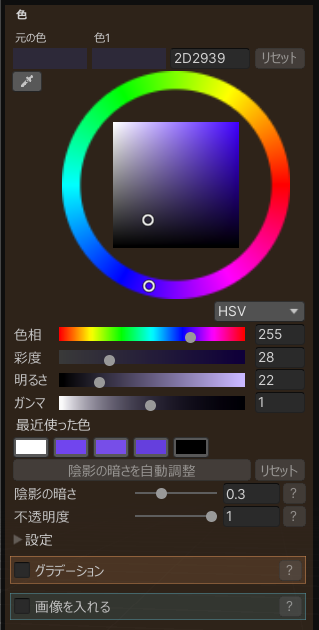
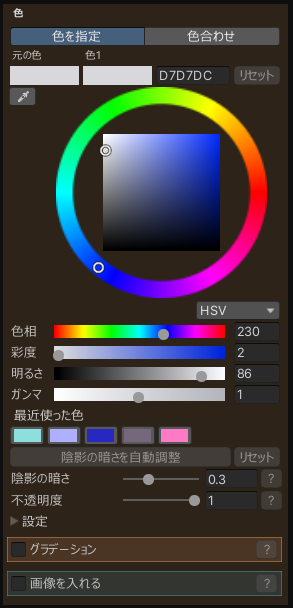
0.7.0: 色合わせのページを追加し、範囲をなぞって選ぶ・残りのパーツも選ぶの名前と置き場所を新しい画面に合わせた

diff --git a/index.html b/index.html
@@ -72,6 +72,7 @@ td.c{ text-align:center; font-weight:700; }
 </style>
 </head>
 <body>
+
 <div class="doc">
 
 <section class="page cover">
@@ -80,10 +81,10 @@ td.c{ text-align:center; font-weight:700; }
   <div class="hue"></div>
   <p class="sub"><span class="nb">Scene</span> でクリックした場所の色を、陰影を保ったまま変える Unity エディタ拡張</p>
   <div class="meta">
-    <span>対応版</span><span><span class="nb">Tocolo</span> <span class="nb">0.6.0</span> ／ <span class="nb">Tocolo Pro</span> <span class="nb">0.6.0</span></span>
+    <span>対応版</span><span><span class="nb">Tocolo</span> <span class="nb">0.7.0</span> ／ <span class="nb">Tocolo Pro</span> <span class="nb">0.7.0</span></span>
     <span>動作環境</span><span><span class="nb">Unity 2022.3</span>、VRChat SDK Avatars 3.7.0 以降、<span class="nb">NDMF</span> 1.14.0 以降</span>
     <span>作者</span><span>nekoare</span>
-    <span>更新</span><span>2026-10-25</span>
+    <span>更新</span><span>2026-11-21</span>
   </div>
   <div class="foot"><span><span class="nb">Tocolo</span> 操作説明書</span><span>表紙</span></div>
 </section>
@@ -94,14 +95,14 @@ td.c{ text-align:center; font-weight:700; }
     <span>1</span><span class="d"><span class="nb">Tocolo</span> でできること・体験版と Pro の違い</span><span>3</span>
     <span>2</span><span class="d">導入と削除のしかた</span><span>4</span>
     <span>3</span><span class="d">基本操作（開始・クリック・色を選ぶ・終了）</span><span>5</span>
-    <span>4</span><span class="d">範囲の調整（影響範囲・テクスチャの残りを選択・複数選択・除外リスト・なぞって調整・箱の中）</span><span>6</span>
-    <span>5</span><span class="d">色の調整（<span class="nb">色 1／色 2</span>・ガンマ・陰影・不透明度・色がずれるとき）</span><span>11</span>
-    <span>6</span><span class="d">グラデーション</span><span>13</span>
-    <span>7</span><span class="d">画像を入れる（シール・箱で貼る）</span><span>14</span>
-    <span>8</span><span class="d">対象アバター・表示切替・編集一覧・オーバーレイの操作</span><span>17</span>
-    <span>9</span><span class="d">Pro: アップロード時の反映と書き出し</span><span>19</span>
-    <span>10</span><span class="d">注意事項とトラブルシューティング</span><span>21</span>
-    <span>11</span><span class="d">用語と操作の一覧</span><span>24</span>
+    <span>4</span><span class="d">範囲の調整（影響範囲・残りのパーツも選ぶ・複数選択・除外リスト・範囲をなぞって選ぶ・箱の中）</span><span>6</span>
+    <span>5</span><span class="d">色の調整（<span class="nb">色 1／色 2</span>・ガンマ・陰影・不透明度・色がずれるとき・色合わせ）</span><span>11</span>
+    <span>6</span><span class="d">グラデーション</span><span>15</span>
+    <span>7</span><span class="d">画像を入れる（シール・箱で貼る）</span><span>16</span>
+    <span>8</span><span class="d">対象アバター・表示切替・編集一覧・オーバーレイの操作</span><span>19</span>
+    <span>9</span><span class="d">Pro: アップロード時の反映と書き出し</span><span>21</span>
+    <span>10</span><span class="d">注意事項とトラブルシューティング</span><span>23</span>
+    <span>11</span><span class="d">用語と操作の一覧</span><span>26</span>
   </div>
   <h3>この説明書の読み方</h3>
   <ul>
@@ -123,6 +124,7 @@ td.c{ text-align:center; font-weight:700; }
         <li>衣装の一部だけ色を変えて、髪や小物と合わせたい</li>
         <li>同じテクスチャを使う別のパーツは元の色のまま残したい</li>
         <li>上から下へ色が変わるグラデーションをテクスチャを描かずに入れたい</li>
+          <li>ショップの違う髪の色味を、お手本の髪にそろえたい</li>
         <li>ロゴやワッペンなどの画像を、服のしわに沿って貼りたい</li>
         <li>色の候補をいくつも試して、決まったものだけアップロードしたい</li>
       </ul>
@@ -133,7 +135,7 @@ td.c{ text-align:center; font-weight:700; }
   <table>
     <tr><th></th><th>体験版（無料）</th><th><span class="nb">Tocolo Pro</span></th></tr>
     <tr><td><span class="nb">Scene</span> でクリックして範囲を選ぶ・色を変える</td><td class="c">○</td><td class="c">○</td></tr>
-    <tr><td>グラデーション・除外リスト・複数選択</td><td class="c">○</td><td class="c">○</td></tr>
+    <tr><td>グラデーション・色合わせ・除外リスト・複数選択</td><td class="c">○</td><td class="c">○</td></tr>
     <tr><td>画像を入れる（<span class="nb">Scene</span> で貼って確かめる）</td><td class="c">○</td><td class="c">○</td></tr>
     <tr><td><span class="nb">NDMF</span> プレビュー（<span class="nb">Scene</span> に結果を表示）</td><td class="c">○</td><td class="c">○</td></tr>
     <tr><td>アップロード時に反映（色変え・画像とも）</td><td class="c">×</td><td class="c">○</td></tr>
@@ -201,8 +203,8 @@ td.c{ text-align:center; font-weight:700; }
     <tr><td><b>似た色</b></td><td>近い色を広めに。しきい値を大きめに取った状態</td><td>グラデーションや影のある部分</td></tr>
   </table>
   <p>モードを切り替えると、選んでいる編集にもすぐ反映されます。</p>
-  <h3>テクスチャの残りを選択</h3>
-  <p>影響範囲がパーツのとき、右端に［テクスチャの残りを選択］が出ます。押すと、そのテクスチャのまだ選んでいないパーツを全部足します（除外リストの <span class="nb">Renderer</span> は除く。「各点の色を揃える」は OFF に）。要らないパーツは <kbd>Ctrl</kbd>＋クリックで外せます。</p>
+  <h3>残りのパーツも選ぶ</h3>
+  <p>影響範囲がパーツのとき、モードのボタンの下に［＋残りのパーツも選ぶ］が出ます。押すと、そのテクスチャのまだ選んでいないパーツを全部足します（除外リストの <span class="nb">Renderer</span> は除く。「各点の色を揃える」は OFF に）。要らないパーツは <kbd>Ctrl</kbd>＋クリックで外せます。</p>
   <div class="two">
     <div class="block range">
       <h3>パネルに出ている項目（同じ色・似た色）</h3>
@@ -217,12 +219,13 @@ td.c{ text-align:center; font-weight:700; }
       <dl class="term">
         <dt>またいで選ぶ</dt><dd>「マテリアルをまたいで選ぶ」。7 ページ</dd>
         <dt>隠れている範囲</dt><dd>「隠れている範囲も選ぶ」。7 ページ</dd>
+        <dt>範囲をなぞって選ぶ</dt><dd>パーツのとき。8 ページ</dd>
         <dt>ゴマ塩除去</dt><dd>同じ色・似た色のとき。塗りに混じる細かい点を取り除きます</dd>
         <dt>はみ出し幅</dt><dd>パーツのまわりの <span class="nb">UV</span> の空き部分まで色を広げる幅（px）。つなぎ目に元の色の線が見えるときは上げ、マイナスで縁を削ります</dd>
       </dl>
     </div>
   </div>
-  <p>なぞって調整は 8 ページ、箱の中の項目は 10 ページ。範囲の縞模様は小窓「表示切替」の［選択範囲］で出し入れします（8 章）。</p>
+  <p>範囲をなぞって選ぶは 8 ページ、箱の中の項目は 10 ページ。範囲の縞模様は小窓「表示切替」の［選択範囲］で出し入れします（8 章）。</p>
   <div class="foot"><span>4. 範囲の調整</span><span>6</span></div>
 </section>
 
@@ -251,17 +254,17 @@ td.c{ text-align:center; font-weight:700; }
 </section>
 
 <section class="page">
-  <h2>4. 範囲の調整（なぞって調整） <span class="tag range">範囲</span></h2>
+  <h2>4. 範囲の調整（範囲をなぞって選ぶ） <span class="tag range">範囲</span></h2>
   <p>パーツで選んだ範囲を、<span class="nb">Scene</span> でなぞって面（三角形）ごとに足したり消したりします。髪のメッシュカラー（筋状の色）やインナーカラーのように、<span class="nb">UV</span> がほかの所とつながっていて、パーツで選ぶと大きな塊ごと色が変わってしまうときに使います。</p>
   <ol class="steps">
     <li><span>影響範囲を「パーツ」にして、変えたい所を含むパーツをクリックします（パーツがまるごと選ばれます）。<kbd>Ctrl</kbd>＋クリックやエリア選択で、先にパーツを足しておくこともできます。</span></li>
-    <li><span>範囲ブロックの「なぞって調整」で［足す］か［消す］を押します。押したボタンが光り、<span class="nb">Scene</span> のカーソルにブラシの円が出ます（足すは緑、消すは赤）。</span></li>
+    <li><span>範囲ブロックの「▸ 設定」を開き、「範囲をなぞって選ぶ」で［足す］か［消す］を押します。押したボタンが光り、<span class="nb">Scene</span> のカーソルにブラシの円が出ます（足すは緑、消すは赤）。</span></li>
     <li><span><span class="nb">Scene</span> でドラッグしてなぞります。ブラシの円に触れた面が、緑（足す）か赤（消す）で重なって見えます。<kbd>Ctrl</kbd> を押している間は、足すと消すが入れ替わります（パネルのボタンの光り方も入れ替わります）。右下の操作の案内も、ブラシを持っている間はなぞりの案内に変わります。</span></li>
     <li><span>離すと、範囲と色がまとめて反映されます。1 回なぞるごとに <kbd>Ctrl</kbd>+<kbd>Z</kbd> で戻せます。</span></li>
-    <li><span>終わったら、同じボタンをもう一度押すか <kbd>Esc</kbd> で道具を置きます。道具を持っている間は、クリックでの選び直し・<kbd>Shift</kbd>＋クリック・<kbd>Ctrl</kbd>＋クリック・エリア選択は効きません。</span></li>
+    <li><span>終わったら、同じボタンをもう一度押すか <kbd>Esc</kbd> で道具を置きます（「▸ 設定」を閉じても置きます）。道具を持っている間は、クリックでの選び直し・<kbd>Shift</kbd>＋クリック・<kbd>Ctrl</kbd>＋クリック・エリア選択は効きません。</span></li>
   </ol>
   <div class="block range">
-    <h3>パネルに出ている項目（パーツのとき）</h3>
+    <h3>「▸ 設定」の中の項目（パーツのとき）</h3>
     <dl class="term">
       <dt>足す</dt><dd>押すと道具を持ち、なぞった面を範囲に足します。もう一度押すと置きます</dd>
       <dt>消す</dt><dd>なぞった面を範囲から外します</dd>
@@ -270,12 +273,12 @@ td.c{ text-align:center; font-weight:700; }
       <dt>ブラシのはみ出し</dt><dd>なぞった境目を、＋で外へ（範囲が広がる）、−で内へ（狭まる）ずらします（px、既定 0）。毛束の色の境目がメッシュの辺とずれているときに使います</dd>
     </dl>
   </div>
-  <div><div class="fig" style="padding:4px"><img src="img/fig16.png" alt="［消す］でなぞっているところ（パネルの「なぞって調整」と Scene の赤く重なった面）" style="max-height:55mm;width:auto"></div><div class="cap">パーツを選んでから［消す］でなぞっているところ。ブラシの円に触れた面が赤く重なり、離すと範囲から外れる</div></div>
-  <div class="foot"><span>4. 範囲の調整（なぞって調整）</span><span>8</span></div>
+  <div><div class="fig" style="padding:4px"><img src="img/fig16.png" alt="［足す］でなぞっているところ（パネルの「範囲をなぞって選ぶ」と Scene の緑に重なった面）" style="max-height:55mm;width:auto"></div><div class="cap">パーツを選んでから［足す］でなぞっているところ。ブラシの円に触れた面が緑に重なり、離すと範囲に足される</div></div>
+  <div class="foot"><span>4. 範囲の調整（範囲をなぞって選ぶ）</span><span>8</span></div>
 </section>
 
 <section class="page">
-  <h2>4. 範囲の調整（なぞって調整・続き） <span class="tag range">範囲</span></h2>
+  <h2>4. 範囲の調整（範囲をなぞって選ぶ・続き） <span class="tag range">範囲</span></h2>
   <h3>知っておくこと</h3>
   <ul>
     <li>ブラシが当たるのは、<span class="nb">Scene</span> で見えている面だけです。奥の面をなぞりたいときは、<span class="nb">Hierarchy</span> の目のマークで手前の物を隠すか、手前の物を除外リストに入れてください。</li>
@@ -289,7 +292,7 @@ td.c{ text-align:center; font-weight:700; }
     <div><div class="fig" style="padding:4px"><img src="img/fig17b.png" alt="［消す］でなぞった後（なぞった毛束が元の色に戻っている）" style="max-height:80mm;width:auto"></div><div class="cap">［消す］でなぞった後。なぞった毛束だけが元の色に戻る</div></div>
   </div>
   <div class="note"><b>分けられない場合</b>　変えたい所とほかの所がテクスチャの同じ場所を使い回している（<span class="nb">UV</span> が重なっている）と、なぞって分けても両方一緒に変わります。テクスチャの色変えでは分けられません。また、色の境目が面の途中に描かれている模様は、面ごとには切れません。「同じ色／似た色」や「箱の中」を試してください。</div>
-  <div class="foot"><span>4. 範囲の調整（なぞって調整・続き）</span><span>9</span></div>
+  <div class="foot"><span>4. 範囲の調整（範囲をなぞって選ぶ・続き）</span><span>9</span></div>
 </section>
 
 <section class="page">
@@ -339,7 +342,7 @@ td.c{ text-align:center; font-weight:700; }
       <h3>最近使った色</h3>
       <p>直近 5 色が並びます。押すとその色になります。</p>
     </div>
-    <div><div class="fig" style="padding:4px"><img src="img/fig6.png" alt="色ブロック（「▸ 設定」は閉じた状態）" style="max-height:100mm;width:auto"></div><div class="cap">色ブロック。上から見本行とカラーコード、スポイト、カラーホイール、<span class="nb">HSV／RGB</span> スライダー、ガンマ、最近使った色、仕上がりの調整、「▸ 設定」</div></div>
+    <div><div class="fig" style="padding:4px"><img src="img/fig6.png" alt="色ブロック（「▸ 設定」は閉じた状態）" style="max-height:100mm;width:auto"></div><div class="cap">色ブロック。上から［色を指定｜色合わせ］の切り替え（色合わせは 13 ページ）、見本行とカラーコード、スポイト、カラーホイール、<span class="nb">HSV／RGB</span> スライダー、ガンマ、最近使った色、仕上がりの調整、「▸ 設定」</div></div>
   </div>
   <div class="block color">
     <h3>仕上がりの調整（パネルに出ている項目）</h3>
@@ -376,6 +379,76 @@ td.c{ text-align:center; font-weight:700; }
 </section>
 
 <section class="page">
+  <h2>5. 色の調整（色合わせ） <span class="tag color">色</span></h2>
+  <p>色を 1 つ選ぶ代わりに、別の髪（お手本）の色味に合わせます。お手本の暗い所から明るい所までの色と明るさの散らばり方を写すので、ショップの違う髪どうしでも、陰影の付き方ごと色味をそろえられます。</p>
+  <div class="two">
+    <div><div class="fig" style="padding:4px"><img src="img/fig18a.png" alt="色合わせの前（左の白い髪がお手本、右は紫の髪）" style="max-height:48mm;width:auto"></div><div class="cap">色合わせの前。左がお手本の髪、右が色を合わせたい髪</div></div>
+    <div><div class="fig" style="padding:4px"><img src="img/fig18b.png" alt="色合わせの後（右の髪がお手本の白い色味にそろっている）" style="max-height:48mm;width:auto"></div><div class="cap">色合わせの後。右の髪がお手本の色味にそろう（少し調整）</div></div>
+  </div>
+  <ol class="steps">
+    <li><span>変えたい髪をクリックして範囲を選びます。影響範囲はふだんどおり（パーツ・箱の中・同じ色・似た色）です。</span></li>
+    <li><span>色ブロックの一番上の［色合わせ］を押します。<span class="nb">Scene</span> でお手本を選ぶ状態になり、パネルに案内が出ます。</span></li>
+    <li><span><span class="nb">Scene</span> でお手本にする髪をクリックします。その場で色を測り、すぐに色が変わります。アバターの外にある髪（お手本用に置いた別の髪など）は、パネルの「お手本」の欄に <span class="nb">Hierarchy</span> からドラッグ＆ドロップします。</span></li>
+    <li><span>必要なら、明るさの山やスライダーでお手本からずらします（14 ページ）。</span></li>
+  </ol>
+  <div class="two">
+    <div class="block color">
+      <h3>「お手本」の行</h3>
+      <dl class="term">
+        <dt>左のボタン</dt><dd>押すと <span class="nb">Scene</span> でお手本を選ぶ状態になります。もう一度押すか <kbd>Esc</kbd> でやめます</dd>
+        <dt>欄</dt><dd>お手本の <span class="nb">Renderer</span>。空にするとお手本を外し、この編集は色を変えなくなります</dd>
+        <dt>マテリアル</dt><dd>お手本にマテリアルが複数あるときに出ます。どのマテリアルの色に合わせるかを選びます</dd>
+      </dl>
+    </div>
+    <div>
+      <h3>範囲と合わせ方</h3>
+      <ul>
+        <li>色が変わるのは、範囲で選んだ所だけです。合わせ方は、そのテクスチャを使う髪全体の色で決めます。</li>
+        <li>［色を指定］に戻すと、前に指定していた色（無ければ元の色）に戻ります。お手本は覚えているので、［色合わせ］に戻せば同じ色になります。</li>
+        <li>色合わせの間は、グラデーションと画像を入れるのブロックが出ません（その編集では切れます）。設定は残るので、［色を指定］に戻して ON にし直せば元どおりです。</li>
+      </ul>
+    </div>
+  </div>
+  <div class="foot"><span>5. 色の調整（色合わせ）</span><span>13</span></div>
+</section>
+
+<section class="page">
+  <h2>5. 色の調整（色合わせ・続き） <span class="tag color">色</span></h2>
+  <div class="two">
+    <div>
+      <h3>明るさの山</h3>
+      <p>横が明るさ（左が暗い）、高さがその明るさの部分の多さ、色が合わせた後の色です。薄い灰色の山は、ずらす前（お手本どおり）の形です。山・線・下の ▲ はつかんで動かせます。</p>
+      <dl class="term">
+        <dt>山の本体・中の ▲</dt><dd>左右にドラッグすると、全体の明るさが変わります</dd>
+        <dt>左の線・左の ▲</dt><dd>陰影の暗さが変わります</dd>
+        <dt>右の線・右の ▲</dt><dd>ハイライトの伸びが変わります</dd>
+      </dl>
+      <p>▲ が重なったときは、中の ▲ の少し左を押すと影、少し右を押すとハイライトをつかめます。</p>
+      <h3>見本行</h3>
+      <p>左の「お手本の色」はお手本の代表の色、右の「合わせた色」は合わせた結果の代表の色です。「お手本の色」か［リセット］を押すと、ずらしとガンマをお手本どおりに戻します（不透明度はそのまま）。</p>
+    </div>
+    <div><div class="fig" style="padding:4px"><img src="img/fig19.png" alt="色合わせの欄" style="max-height:100mm;width:auto"></div><div class="cap">色合わせの欄。上から［色を指定｜色合わせ］、お手本の行、見本行、明るさの山、スライダー</div></div>
+  </div>
+  <div class="block color">
+    <h3>スライダー</h3>
+    <dl class="term">
+      <dt>明るさ</dt><dd>全体を明るく・暗くずらします（山の本体と同じ）</dd>
+      <dt>色相・彩度</dt><dd>色味を回す・鮮やかさを足し引きします</dd>
+      <dt>陰影の暗さ</dt><dd>暗い所の暗さ（山の左の線と同じ）</dd>
+      <dt>ハイライトの伸び</dt><dd>明るい所の伸び（山の右の線と同じ）</dd>
+      <dt>ガンマ・不透明度</dt><dd>［色を指定］と同じです（11 ページ）</dd>
+    </dl>
+  </div>
+  <h3>知っておくこと</h3>
+  <ul>
+    <li>お手本の髪を同じアバターの <span class="nb">Tocolo</span> で色変えしていれば、変えた後の色に合わせます。お手本の色を変えると、こちらも付いてきます（お手本側の色合わせは反映しません）。</li>
+    <li>お手本を消したり見つからなくなったりしても、前に測った色で合わせ続けます（パネルに案内が出ます）。アップロードもその色です。</li>
+  </ul>
+  <div class="note"><b>色合わせが使えないとき</b>　「アバター全体」の編集、キメラヘアマスターで扱っている髪では使えません。お手本と同じテクスチャの髪・メインテクスチャの無いマテリアルはお手本にできません。お手本の色を読めないとき（メッシュの <span class="nb">Read/Write</span> が無効など）は、有効にしてからパネルの［もう一度測る］を押してください。</div>
+  <div class="foot"><span>5. 色の調整（色合わせ・続き）</span><span>14</span></div>
+</section>
+
+<section class="page">
   <h2>6. グラデーション <span class="tag color">色</span></h2>
   <p>選んでいる範囲に、<span class="nb">Scene</span> 空間の位置で色を変えるグラデーションを入れます。「グラデーション」を ON にすると <span class="nb">Scene</span> に箱が出て、箱の下端の「<span class="nb">色 1</span>」から上端の「<span class="nb">色 2</span>」へ変化します。</p>
   <ol class="steps">
@@ -395,7 +468,7 @@ td.c{ text-align:center; font-weight:700; }
     </div>
   </div>
   <p>マテリアルをまたいで連結した編集にも、グラデーションの設定は共通で効きます。箱は 1 つで、各パーツの位置に応じて混ざります。箱を隠したいときは 8 章の小窓「表示切替」を使います。</p>
-  <div class="foot"><span>6. グラデーション</span><span>13</span></div>
+  <div class="foot"><span>6. グラデーション</span><span>15</span></div>
 </section>
 
 <section class="page">
@@ -408,7 +481,7 @@ td.c{ text-align:center; font-weight:700; }
     </div>
     <div class="block">
       <h3>箱で貼る</h3>
-      <p>「▸ 設定」でオンにします。青緑の箱の正面から、奥へまっすぐ写して貼ります。ネクタイ一面のように範囲いっぱいに貼りたいときや、離れたパーツにまたがって貼りたいときに使います（15 ページ）。</p>
+      <p>「▸ 設定」でオンにします。青緑の箱の正面から、奥へまっすぐ写して貼ります。ネクタイ一面のように範囲いっぱいに貼りたいときや、離れたパーツにまたがって貼りたいときに使います（17 ページ）。</p>
     </div>
   </div>
   <h3>シールの貼り方</h3>
@@ -420,7 +493,7 @@ td.c{ text-align:center; font-weight:700; }
   </ol>
   <div><div class="fig" style="padding:4px"><img src="img/fig11.png" alt="Scene のシール（枠・四隅の丸・まわりの輪が見えるように）" style="max-height:56mm;width:auto"></div><div class="cap">シールで画像を入れた編集。画像のまわりに枠、四隅に大きさを変える丸、外側に回転の輪が出る。画像は範囲の中にだけ貼られる</div></div>
   <div class="note"><b>注意</b>　アップロードに反映されるのは <span class="nb">Tocolo Pro</span> を入れたときだけです（体験版は <span class="nb">Scene</span> で確かめるまで）。画像のファイルを消すと、その編集は反映されず、編集一覧に警告の印が出ます。なめらかに貼るには、メッシュの <span class="nb">Read/Write</span> が有効である必要があります。<span class="nb">Poiyomi</span> の重ね貼り用マテリアルは、アップロード時の <span class="nb">Poiyomi</span> のロックで一緒にロックされます。</div>
-  <div class="foot"><span>7. 画像を入れる</span><span>14</span></div>
+  <div class="foot"><span>7. 画像を入れる</span><span>16</span></div>
 </section>
 
 <section class="page">
@@ -461,7 +534,7 @@ td.c{ text-align:center; font-weight:700; }
       <p>画像・置き場所・「▸ 設定」の中身は、OFF にしてから ON に戻してもそのまま残ります。トグルの行の［リセット］を押すと、シールは最初にクリックした所に面の向き・標準の大きさで、箱は範囲を囲む位置に置き直します（画像と「▸ 設定」の中身はそのまま）。</p>
     </div>
   </div>
-  <div class="foot"><span>7. 画像を入れる（動かし方・箱で貼る）</span><span>15</span></div>
+  <div class="foot"><span>7. 画像を入れる（動かし方・箱で貼る）</span><span>17</span></div>
 </section>
 
 <section class="page">
@@ -479,8 +552,8 @@ td.c{ text-align:center; font-weight:700; }
   <div class="block color">
     <h3>「▸ 設定」の中</h3>
     <dl class="term">
-      <dt>箱で貼る</dt><dd>既定 OFF（シール）。オンで箱からまっすぐ写す貼り方になります（15 ページ）</dd>
-      <dt>向きも面に合わせる</dt><dd>箱で貼るときだけ出ます。既定 ON（15 ページ）</dd>
+      <dt>箱で貼る</dt><dd>既定 OFF（シール）。オンで箱からまっすぐ写す貼り方になります（17 ページ）</dd>
+      <dt>向きも面に合わせる</dt><dd>箱で貼るときだけ出ます。既定 ON（17 ページ）</dd>
       <dt>なめらかに貼る</dt><dd>既定 ON。テクスチャに焼き込まず、画像を貼った面を重ねて直接表示します。<span class="nb">lilToon</span> と、ロックしていない <span class="nb">Poiyomi Toon</span> のマテリアルで使えます。それ以外のマテリアルが範囲に含まれると押せず、焼き込みで貼ります</dd>
       <dt>ノーマルも反映</dt><dd>既定 ON。なめらかに貼るときだけ効きます。服のしわや陰影を画像にも乗せます。<span class="nb">lilToon</span> は元の法線マップを画像の位置に写し直すので、法線マップが 1 枚増えます。<span class="nb">Poiyomi</span> は服と同じ法線マップをそのまま使います</dd>
       <dt>比率を保つ</dt><dd>既定 ON。画像の縦横比を保ちます。OFF で枠（箱）いっぱいに引き伸ばします</dd>
@@ -494,7 +567,7 @@ td.c{ text-align:center; font-weight:700; }
     <tr><td>使えるマテリアル</td><td>すべて</td><td><span class="nb">lilToon</span>・<span class="nb">Poiyomi Toon</span>（ロックなし）</td></tr>
     <tr><td>アップロード時に増えるもの</td><td>生成テクスチャ（色変えと同じ）</td><td>重ねる面のメッシュ・マテリアル・画像（ノーマルも反映なら法線マップも）</td></tr>
   </table>
-  <div class="foot"><span>7. 画像を入れる（設定）</span><span>16</span></div>
+  <div class="foot"><span>7. 画像を入れる（設定）</span><span>18</span></div>
 </section>
 
 <section class="page">
@@ -514,7 +587,7 @@ td.c{ text-align:center; font-weight:700; }
     </div>
     <div><div class="fig" style="padding:8px"><img src="img/fig13.png" alt="小窓「表示切替」（［選択範囲］と［画像］が見えるように）" style="width:auto"></div><div class="cap">パネルの横に出る小窓「表示切替」。一番上の［選択範囲］で縞模様、その下のボタンで <span class="nb">Scene</span> に出す箱を選ぶ</div></div>
   </div>
-  <div class="foot"><span>8. 対象アバター・表示切替</span><span>17</span></div>
+  <div class="foot"><span>8. 対象アバター・表示切替</span><span>19</span></div>
 </section>
 
 <section class="page">
@@ -542,7 +615,7 @@ td.c{ text-align:center; font-weight:700; }
   </ul>
   <h3>表示言語</h3>
   <p>右下の「<span class="nb">Tocolo</span>: 操作」オーバーレイの <span class="nb">Language</span> で、日本語・<span class="nb">English</span>・<span class="nb">한국어</span> を切り替えられます。</p>
-  <div class="foot"><span>8. 編集一覧・オーバーレイの操作</span><span>18</span></div>
+  <div class="foot"><span>8. 編集一覧・オーバーレイの操作</span><span>20</span></div>
 </section>
 
 <section class="page">
@@ -558,7 +631,7 @@ td.c{ text-align:center; font-weight:700; }
     <li>1 つの編集の画像を作れなくても、ほかの編集は続けて反映します（<span class="nb">NDMF</span> の報告ウィンドウに案内が出ます）。</li>
     <li>体験版と Pro の版は揃えてください。Pro が古いと、なめらかに貼った画像がアップロードに反映されません（報告ウィンドウに「有料版を更新してください」と出ます）。</li>
   </ul>
-  <div class="foot"><span>9. アップロード時の反映と書き出し</span><span>19</span></div>
+  <div class="foot"><span>9. アップロード時の反映と書き出し</span><span>21</span></div>
 </section>
 
 <section class="page">
@@ -578,7 +651,7 @@ td.c{ text-align:center; font-weight:700; }
     <li>各ボタンの <kbd>?</kbd> で説明が見出し付きで出ます。</li>
   </ul>
   <div><div class="fig" style="padding:4px"><img src="img/fig9.png" alt="Inspector の書き出し欄" style="max-height:46mm;width:auto"></div><div class="cap"><span class="nb">Inspector</span> の書き出し欄。上が「すべてのテクスチャ」の一括ボタン（右の ? で見出し付きの説明）、下がテクスチャごとの折りたたみ</div></div>
-  <div class="foot"><span>9. アップロード時の反映と書き出し（続き）</span><span>20</span></div>
+  <div class="foot"><span>9. アップロード時の反映と書き出し（続き）</span><span>22</span></div>
 </section>
 
 <section class="page">
@@ -604,7 +677,7 @@ td.c{ text-align:center; font-weight:700; }
     <li>アニメーションや他ツールのマテリアル差し替え機能で後から割り当てられるマテリアルには反映されません（<span class="nb">Renderer</span> に最初から付いているマテリアルだけを見ます）。</li>
     <li>圧縮系のツール（<span class="nb">NDMF</span> の最適化フェーズで動くもの）とは共存できます。<span class="nb">Tocolo</span> の結果がそのまま圧縮の対象になります。</li>
   </ul>
-  <div class="foot"><span>10. 注意事項とトラブルシューティング</span><span>21</span></div>
+  <div class="foot"><span>10. 注意事項とトラブルシューティング</span><span>23</span></div>
 </section>
 
 <section class="page">
@@ -614,7 +687,7 @@ td.c{ text-align:center; font-weight:700; }
     <tr><th>症状</th><th>原因と対処</th></tr>
     <tr><td>クリックしても選べない</td><td>メッシュのインポート設定で <span class="nb">Read/Write</span> が無効です。クリックするとパネルに案内と［<span class="nb">Read/Write</span> を有効にする］が出るので、押して有効にしてください（後から追加した衣装・小物でよく起きます）。除外リストに入っている <span class="nb">Renderer</span> も選べません</td></tr>
     <tr><td>「テクスチャの無いマテリアルは色を変えられません」と出る</td><td>クリックした所の一番手前が、テクスチャの無いマテリアルの物です。その物の色は変えられません。奥の物を選びたいときは、手前の物を除外リストに入れてください（4 章）</td></tr>
-    <tr><td>パーツで選ぶと、変えたい所より大きな塊で色が変わる</td><td>そのパーツは <span class="nb">UV</span> がほかの所とつながっています。範囲の「なぞって調整」の［消す］で要らない所をなぞって外すか、［足す］で要る所だけを選んでください（4 章 8 ページ）</td></tr>
+    <tr><td>パーツで選ぶと、変えたい所より大きな塊で色が変わる</td><td>そのパーツは <span class="nb">UV</span> がほかの所とつながっています。範囲の「▸ 設定」の「範囲をなぞって選ぶ」の［消す］で要らない所をなぞって外すか、［足す］で要る所だけを選んでください（4 章 8 ページ）</td></tr>
     <tr><td>選択範囲が全体に広がる</td><td>「同じ色／似た色」でしきい値が大きすぎるか、「範囲」が「テクスチャ全体」になっています。しきい値を下げるか「つながった範囲」にしてください</td></tr>
     <tr><td>つなぎ目に元の色の線が残る</td><td>範囲の「▸ 設定」の「はみ出し幅」を上げてください</td></tr>
     <tr><td>縞模様が出ない</td><td>小窓「表示切替」の［選択範囲］を ON にしてください（8 章）</td></tr>
@@ -625,7 +698,7 @@ td.c{ text-align:center; font-weight:700; }
     <tr><td><span class="nb">Scene</span> に緑や水色の線がたくさん重なって見づらい</td><td><img src="img/fig15.png" alt="Scene ビュー右上の地球儀のアイコン" style="float:right;height:20mm;width:auto;margin:0 0 4px 10px;border-radius:4px"><span class="nb">Scene</span> ビュー右上の地球儀のアイコン（<span class="nb">Gizmos</span>）を押して OFF にすると消えます。アバターのルートを選んでいると、<span class="nb">Unity</span> がアバター全体の選択の輪郭（水色）と、コンポーネントの線（接触の範囲など）を描くためです</td></tr>
     <tr><td><span class="nb">Scene</span> の操作が効かなくなった</td><td>オーバーレイのつまみを掴んだままになっている可能性があります。<span class="nb">Scene</span> をクリックするか 2 秒ほど待つと復帰します</td></tr>
   </table>
-  <div class="foot"><span>10. 注意事項とトラブルシューティング（続き）</span><span>22</span></div>
+  <div class="foot"><span>10. 注意事項とトラブルシューティング（続き）</span><span>24</span></div>
 </section>
 
 <section class="page">
@@ -644,7 +717,7 @@ td.c{ text-align:center; font-weight:700; }
     <tr><td>書き出しが「一時的なマテリアル」で中止される</td><td>他のツールの <span class="nb">Scene</span> プレビューがマテリアルを差し替えています。そのプレビューを解除してから書き出してください（アップロードには影響しません）</td></tr>
     <tr><td>アバター容量が増えた</td><td>生成テクスチャの既定「高画質」は <span class="nb">BC1</span> の約 2 倍の容量です。コンポーネントの「生成テクスチャの圧縮」を PC は「元と同じ」、Quest は「標準」にすると元と同程度になります。なめらかに貼った画像は、重ねる画像（ノーマルも反映なら法線マップも）のぶん増えます。圧縮系のツールで最適化している場合はそちらの設定が優先されます</td></tr>
   </table>
-  <div class="foot"><span>10. 注意事項とトラブルシューティング（続き）</span><span>23</span></div>
+  <div class="foot"><span>10. 注意事項とトラブルシューティング（続き）</span><span>25</span></div>
 </section>
 
 <section class="page">
@@ -658,6 +731,7 @@ td.c{ text-align:center; font-weight:700; }
         <dt>連結</dt><dd>マテリアルをまたいで足したときに作られる、テクスチャごとの編集の組。色や設定を共有します</dd>
         <dt><span class="nb">色 1／色 2</span></dt><dd>目標の色。グラデーションでは下端が<span class="nb">色 1</span>、上端が<span class="nb">色 2</span></dd>
         <dt>元の色</dt><dd>クリックした場所のテクスチャの色</dd>
+        <dt>お手本</dt><dd>色合わせで色味を合わせる相手の髪</dd>
         <dt>選択範囲</dt><dd>編集の範囲の縞模様。小窓「表示切替」で出し入れ</dd>
         <dt>箱</dt><dd><span class="nb">Scene</span> に出る箱。箱の中（水色）・グラデーション・画像（青緑。シールなら枠）。小窓「表示切替」で出し入れ</dd>
         <dt>シール</dt><dd>画像の既定の貼り方。面に沿って貼る</dd>
@@ -672,8 +746,8 @@ td.c{ text-align:center; font-weight:700; }
         <dt><kbd>Ctrl</kbd>＋クリック</dt><dd>いまの編集にパーツを足す／外す</dd>
         <dt><kbd>Ctrl</kbd>＋ドラッグ</dt><dd>エリアの中のパーツをまとめて足す（パーツモード）</dd>
         <dt>画像をドラッグ</dt><dd>面に沿って動かす</dd>
-        <dt>なぞる</dt><dd>［足す］か［消す］を押してからドラッグ。<kbd>Ctrl</kbd> で足す・消すを入れ替え</dd>
-        <dt><kbd>Esc</kbd></dt><dd>スポイト・なぞる道具・画像のドラッグをやめる／<span class="nb">Scene 編集</span>を終了</dd>
+        <dt>なぞる</dt><dd>範囲の「▸ 設定」の［足す］か［消す］を押してからドラッグ。<kbd>Ctrl</kbd> で足す・消すを入れ替え</dd>
+        <dt><kbd>Esc</kbd></dt><dd>スポイト・お手本選び・なぞる道具・画像のドラッグをやめる／<span class="nb">Scene 編集</span>を終了</dd>
         <dt><kbd>Ctrl</kbd>+<kbd>Z</kbd></dt><dd>元に戻す</dd>
         <dt>右端のつまみ</dt><dd>オーバーレイの拡大縮小</dd>
       </dl>
@@ -682,7 +756,7 @@ td.c{ text-align:center; font-weight:700; }
   <h3>お問い合わせ</h3>
   <p>不具合報告・機能要望は BOOTH のメッセージ機能でお願いします。更新情報は同梱の CHANGELOG と配布 listing に反映されます。</p>
   <div class="hue" style="margin-top:8px"></div>
-  <div class="foot"><span>11. 用語と操作の一覧</span><span>24</span></div>
+  <div class="foot"><span>11. 用語と操作の一覧</span><span>26</span></div>
 </section>
 
 </div>
